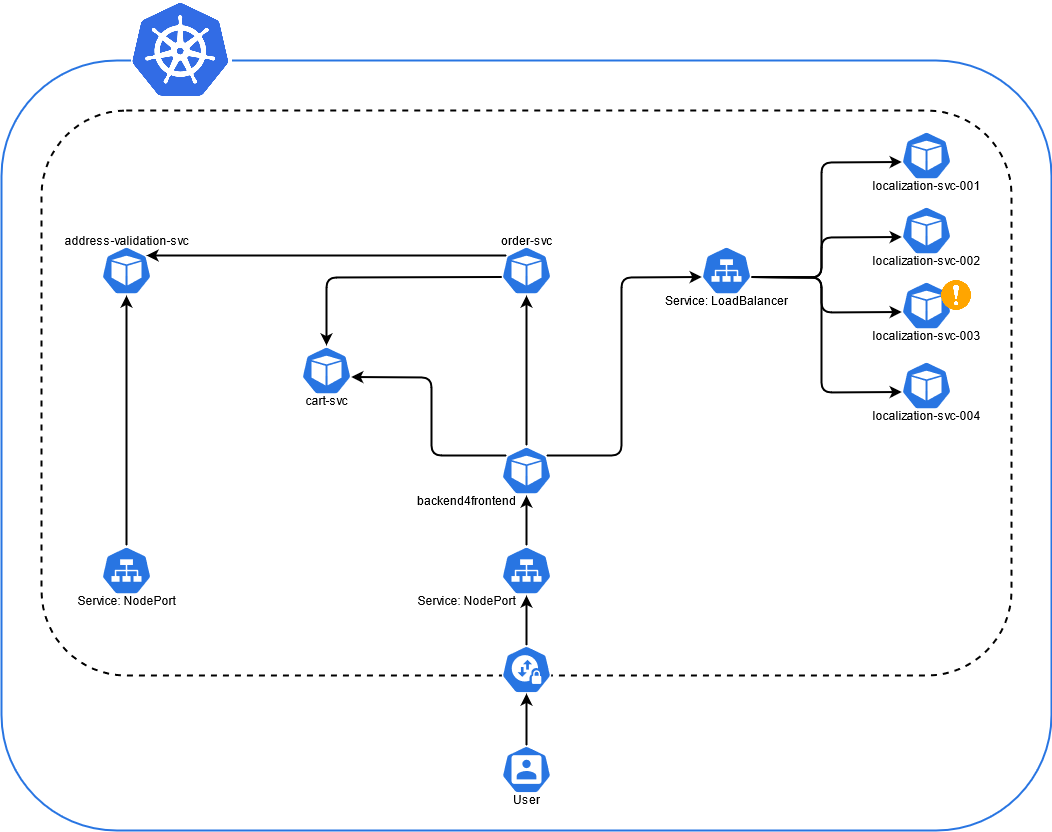
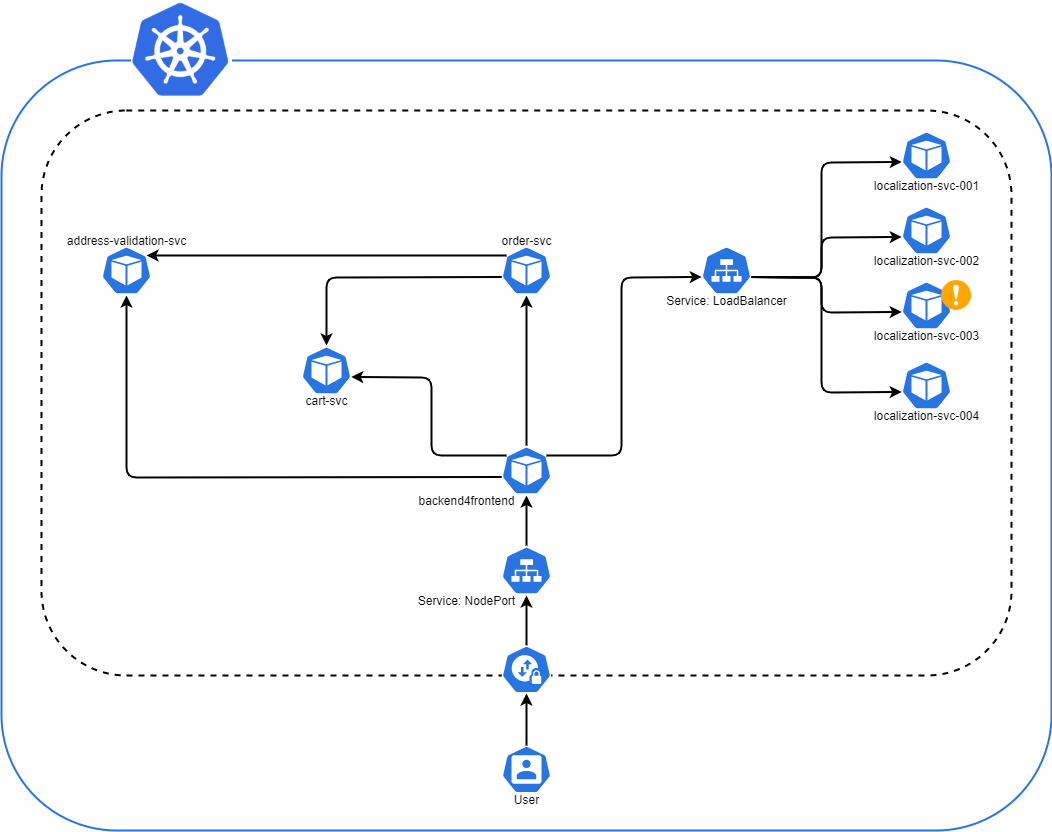
forward address-validation-svc through backend4frontend

diff --git a/README.md b/README.md
@@ -95,6 +95,8 @@ Delete
 
 ## Misc Commands
 
+Kubernetes
+
     kubectl get services
     
     kubectl get deployments
@@ -104,7 +106,13 @@ Delete
     kubectl describe deployments localization-svc
     
     kubectl describe services localization-svc
-    
+
+Docker
+
+	docker network inspect bridge
+	
+	docker ps
+
 # Minikube
 
 Start
